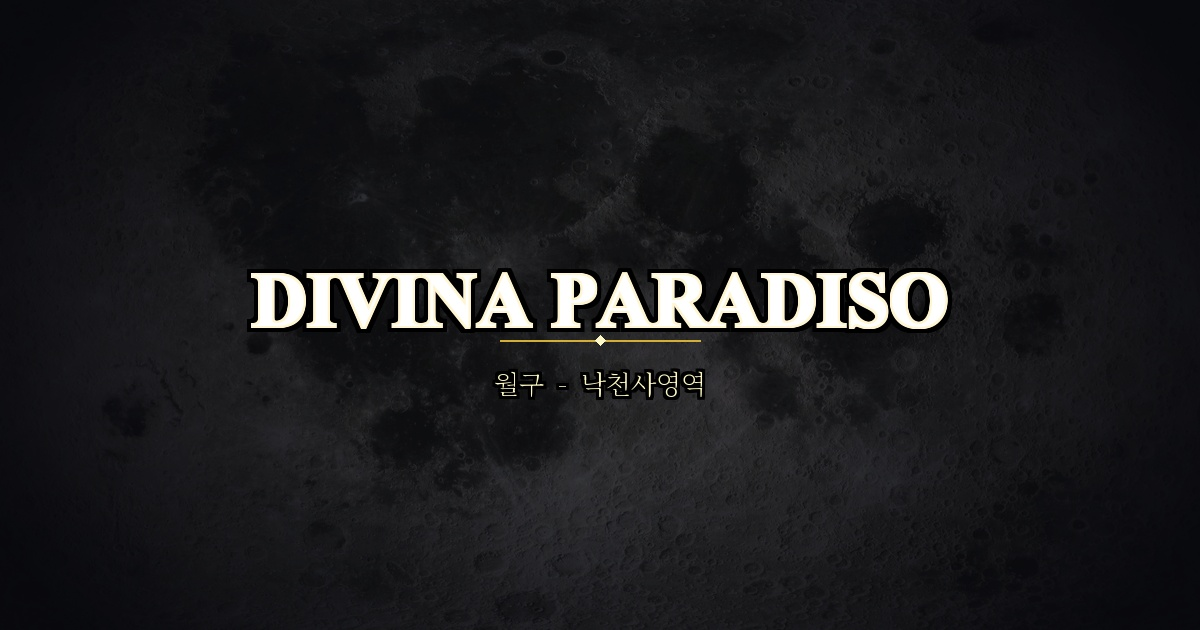
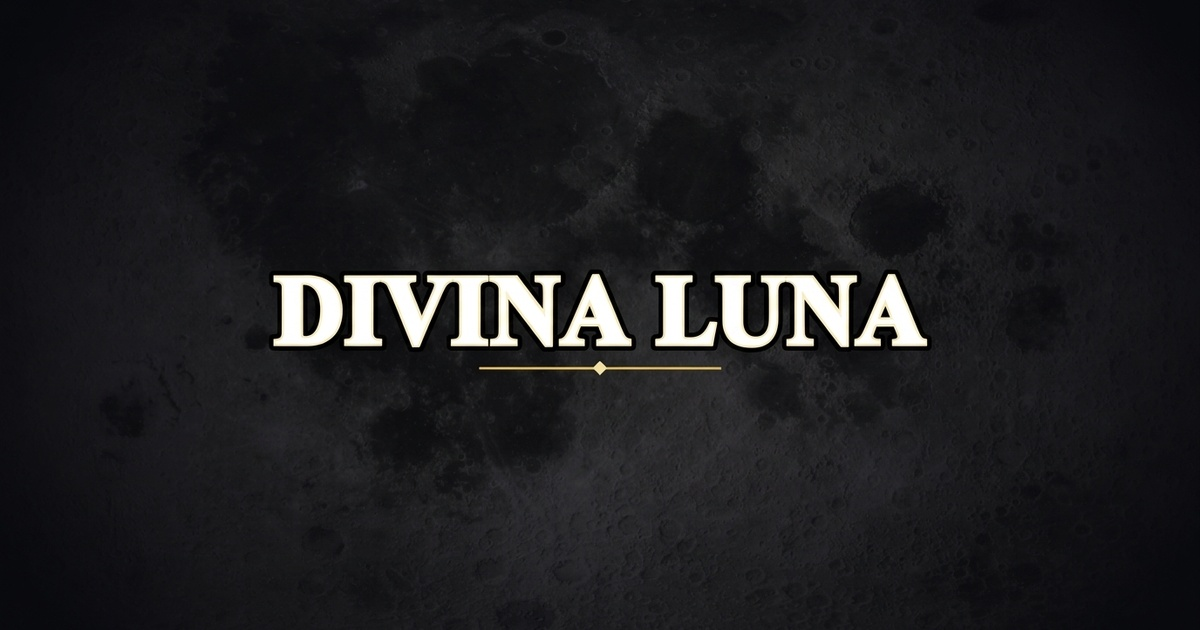
[MINOR FIX] 우클릭 방지 추가 / 썸네일 변경

Changed region(s): [[0.185, 0.4222, 0.8017, 0.6333]]

diff --git a/src/js/script.js b/src/js/script.js
@@ -1,4 +1,65 @@
 document.addEventListener("DOMContentLoaded", () => {
+    // ----------------------------------------------------
+    // Production Protection: Block Right-Click & F12 / DevTools in Non-Local Environments
+    // ----------------------------------------------------
+    const isLocalEnvironment = (() => {
+        const host = window.location.hostname;
+        const proto = window.location.protocol;
+        return (
+            proto === 'file:' ||
+            host === 'localhost' ||
+            host === '127.0.0.1' ||
+            host === '0.0.0.0' ||
+            host.startsWith('192.168.') ||
+            host.startsWith('10.') ||
+            host.endsWith('.local') ||
+            host === ''
+        );
+    })();
+
+    if (!isLocalEnvironment) {
+        // 1. Block mouse right-click (context menu)
+        document.addEventListener('contextmenu', (e) => {
+            e.preventDefault();
+        });
+
+        // 2. Block F12 and common DevTools inspection keyboard shortcuts
+        document.addEventListener('keydown', (e) => {
+            // F12 key
+            if (e.key === 'F12' || e.keyCode === 123) {
+                e.preventDefault();
+                e.stopPropagation();
+                return false;
+            }
+
+            // Windows / Linux: Ctrl + Shift + I, Ctrl + Shift + J, Ctrl + Shift + C
+            if (e.ctrlKey && e.shiftKey && ['I', 'i', 'J', 'j', 'C', 'c'].includes(e.key)) {
+                e.preventDefault();
+                e.stopPropagation();
+                return false;
+            }
+
+            // Windows / Linux: Ctrl + U (View Source)
+            if (e.ctrlKey && ['u', 'U'].includes(e.key)) {
+                e.preventDefault();
+                e.stopPropagation();
+                return false;
+            }
+
+            // macOS: Cmd + Option + I / J / C / U
+            if (e.metaKey && e.altKey && ['I', 'i', 'J', 'j', 'C', 'c'].includes(e.key)) {
+                e.preventDefault();
+                e.stopPropagation();
+                return false;
+            }
+            if (e.metaKey && ['u', 'U'].includes(e.key)) {
+                e.preventDefault();
+                e.stopPropagation();
+                return false;
+            }
+        }, true);
+    }
+
     const introScreen = document.getElementById("intro-screen");
     const introContent = document.getElementById("intro-content");
     const mainContainer = document.getElementById("main-container");
